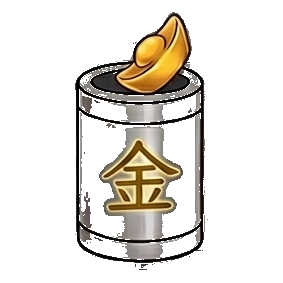
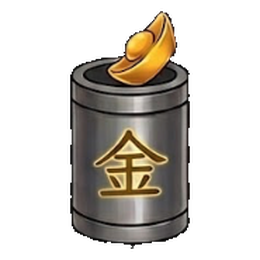
assets(오행): 金을 사용자 제공 버전(어두운 캔+금괴)으로 교체 + 캐시 v=4

Changed region(s): [[0.2462, 0.0308, 0.7385, 0.9538]]

diff --git a/js/ui.js b/js/ui.js
@@ -66,11 +66,11 @@ function renderHome() {
     <div class="report-tabs"><div class="rtab on">운세보고서</div><div class="rtab">인맥보고서</div><div class="rtab">행운보고서</div></div>
     <div class="hero sasin-hero">
       <div class="txt"><span class="kicker">오늘의 사주</span><h2>나를 읽는 시간</h2><p>생년월일시로 나를 깊이 풀어드려요</p></div>
-      <img class="hero-beast" src="img/sasin/cheongryong.png?v=3" alt="청룡" />
+      <img class="hero-beast" src="img/sasin/cheongryong.png?v=4" alt="청룡" />
     </div>
     <div class="quick-row">${quick.map((q) => `<div class="pill">${q}</div>`).join('')}</div>
     <div class="section"><div class="section-head"><div><div class="sec-kicker">동서남북을 지키는 사방신</div><h3>사신 (四神)</h3></div></div></div>
-    <div class="sasin-row">${[['cheongryong', '청룡', '동'], ['jujak', '주작', '남'], ['baekho', '백호', '서'], ['hyeonmu', '현무', '북']].map(([f, n, d]) => `<div class="sasin-tile s-${f}"><img src="img/sasin/${f}.png?v=3" alt="${n}" /><div class="st-cap"><b>${n}</b><span>${d}</span></div></div>`).join('')}</div>
+    <div class="sasin-row">${[['cheongryong', '청룡', '동'], ['jujak', '주작', '남'], ['baekho', '백호', '서'], ['hyeonmu', '현무', '북']].map(([f, n, d]) => `<div class="sasin-tile s-${f}"><img src="img/sasin/${f}.png?v=4" alt="${n}" /><div class="st-cap"><b>${n}</b><span>${d}</span></div></div>`).join('')}</div>
     <div class="ohaeng-band" onclick="openOhaeng()">
       <div class="ob-txt"><b>오행 (五行) 그래프</b><span>내 오행이 얼마나 찼는지 오각형으로 · 저장·비교</span>
         ${ohElemRow(38)}</div>
@@ -503,9 +503,9 @@ const OH_COLORS = { 목: '#2E9E5B', 화: '#E8443A', 토: '#D6A43C', 금: '#8A94A
 const OH_PALETTE = ['#7C6BE7', '#E8557A', '#2E9E5B', '#E8843A', '#3E7BE0', '#8A5AD6', '#12B5A6', '#D4472F'];
 const OH_FILE = { 목: 'mok', 화: 'hwa', 토: 'to', 금: 'geum', 수: 'su' };
 const OH_IMG = {};
-OH_ORDER.forEach((o) => { const im = new Image(); im.src = `img/sasin/elem/${OH_FILE[o]}.png?v=3`; im.onload = () => { Object.values(_ohCharts).forEach((c) => { try { c && c.draw(); } catch (e) {} }); }; OH_IMG[o] = im; });
+OH_ORDER.forEach((o) => { const im = new Image(); im.src = `img/sasin/elem/${OH_FILE[o]}.png?v=4`; im.onload = () => { Object.values(_ohCharts).forEach((c) => { try { c && c.draw(); } catch (e) {} }); }; OH_IMG[o] = im; });
 function ohElemRow(size) {
-  return `<div class="oh-elem-row">${OH_ORDER.map((o) => `<img src="img/sasin/elem/${OH_FILE[o]}.png?v=3" alt="${OH_HANJA[o]}" style="height:${size}px" />`).join('')}</div>`;
+  return `<div class="oh-elem-row">${OH_ORDER.map((o) => `<img src="img/sasin/elem/${OH_FILE[o]}.png?v=4" alt="${OH_HANJA[o]}" style="height:${size}px" />`).join('')}</div>`;
 }
 const _ohCharts = {};
 let _ohLast = null;

diff --git a/index.html b/index.html
@@ -12,7 +12,7 @@
   <div class="app">
     <!-- 상단바 -->
     <div class="topbar">
-      <div class="logo"><img class="logo-mark" src="img/sasin/cheongryong.png?v=3" alt="" />사주<span class="dot">·</span>운세</div>
+      <div class="logo"><img class="logo-mark" src="img/sasin/cheongryong.png?v=4" alt="" />사주<span class="dot">·</span>운세</div>
       <div class="spacer"></div>
       <div class="credit-badge"><span class="coin">C</span> <span id="creditNum">0</span> <span class="plus">＋</span></div>
     </div>